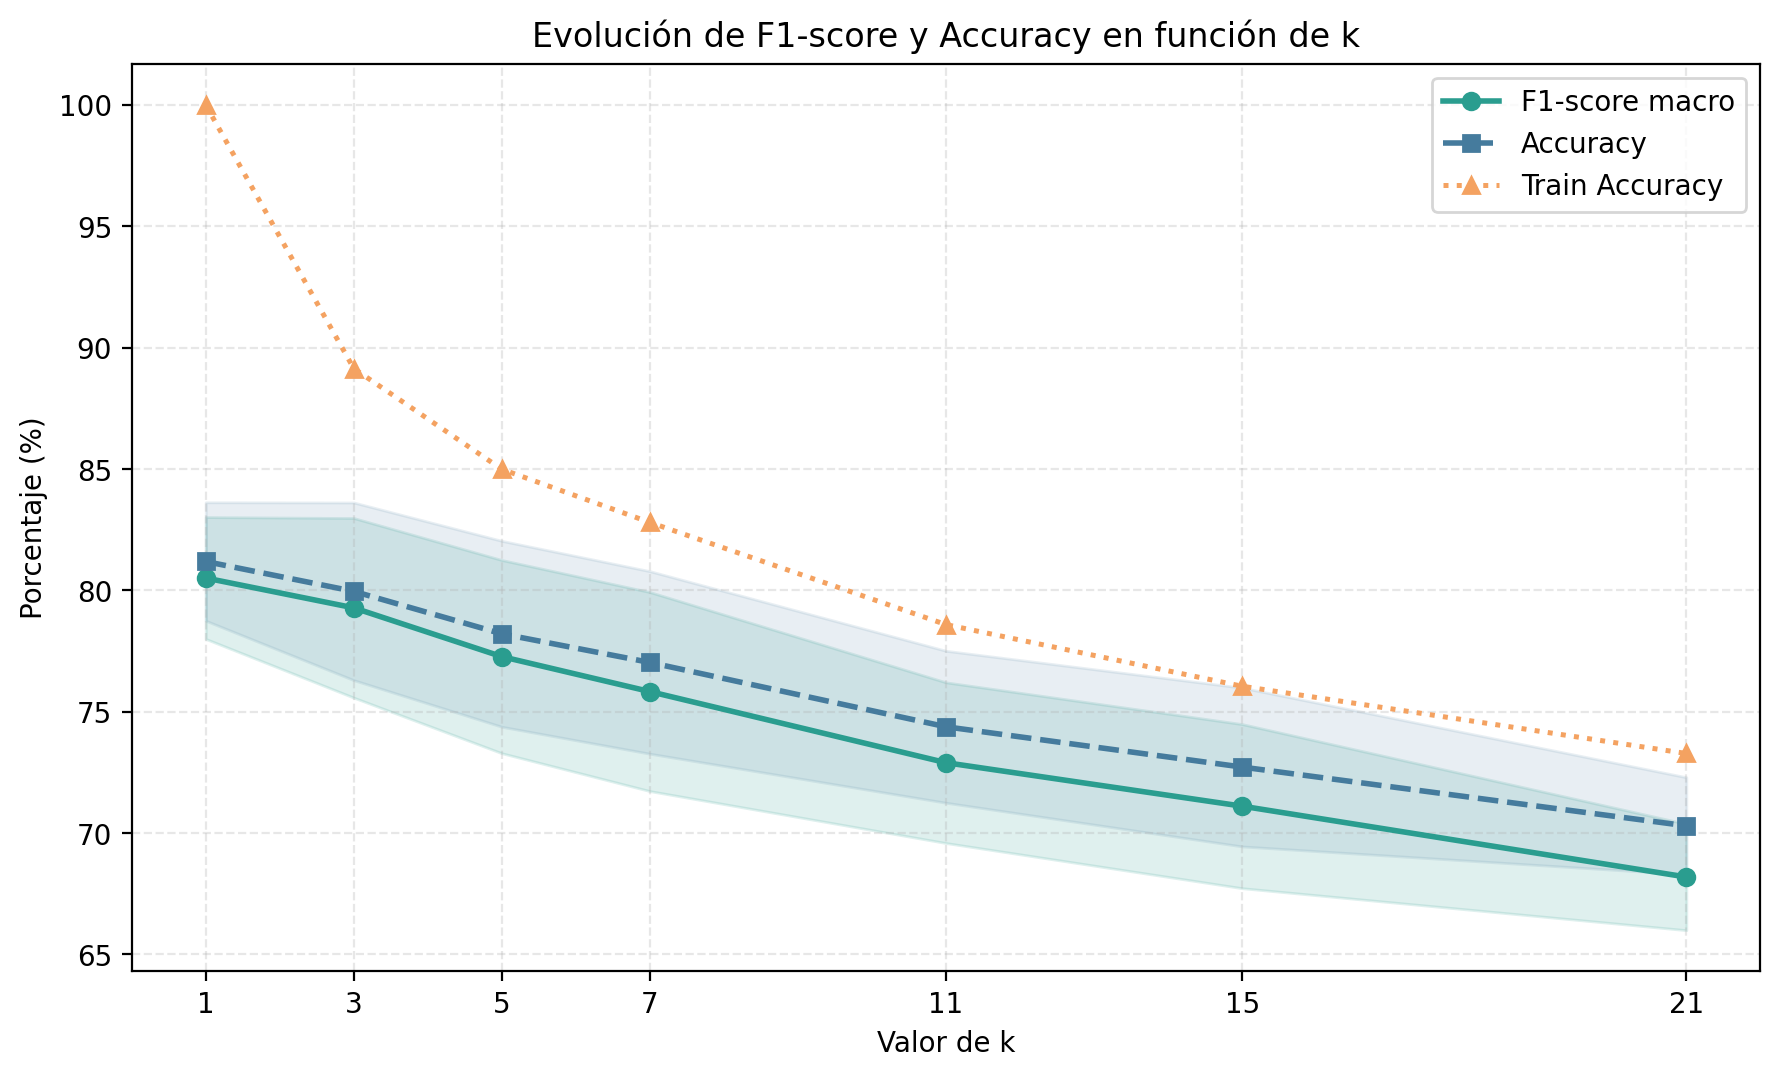
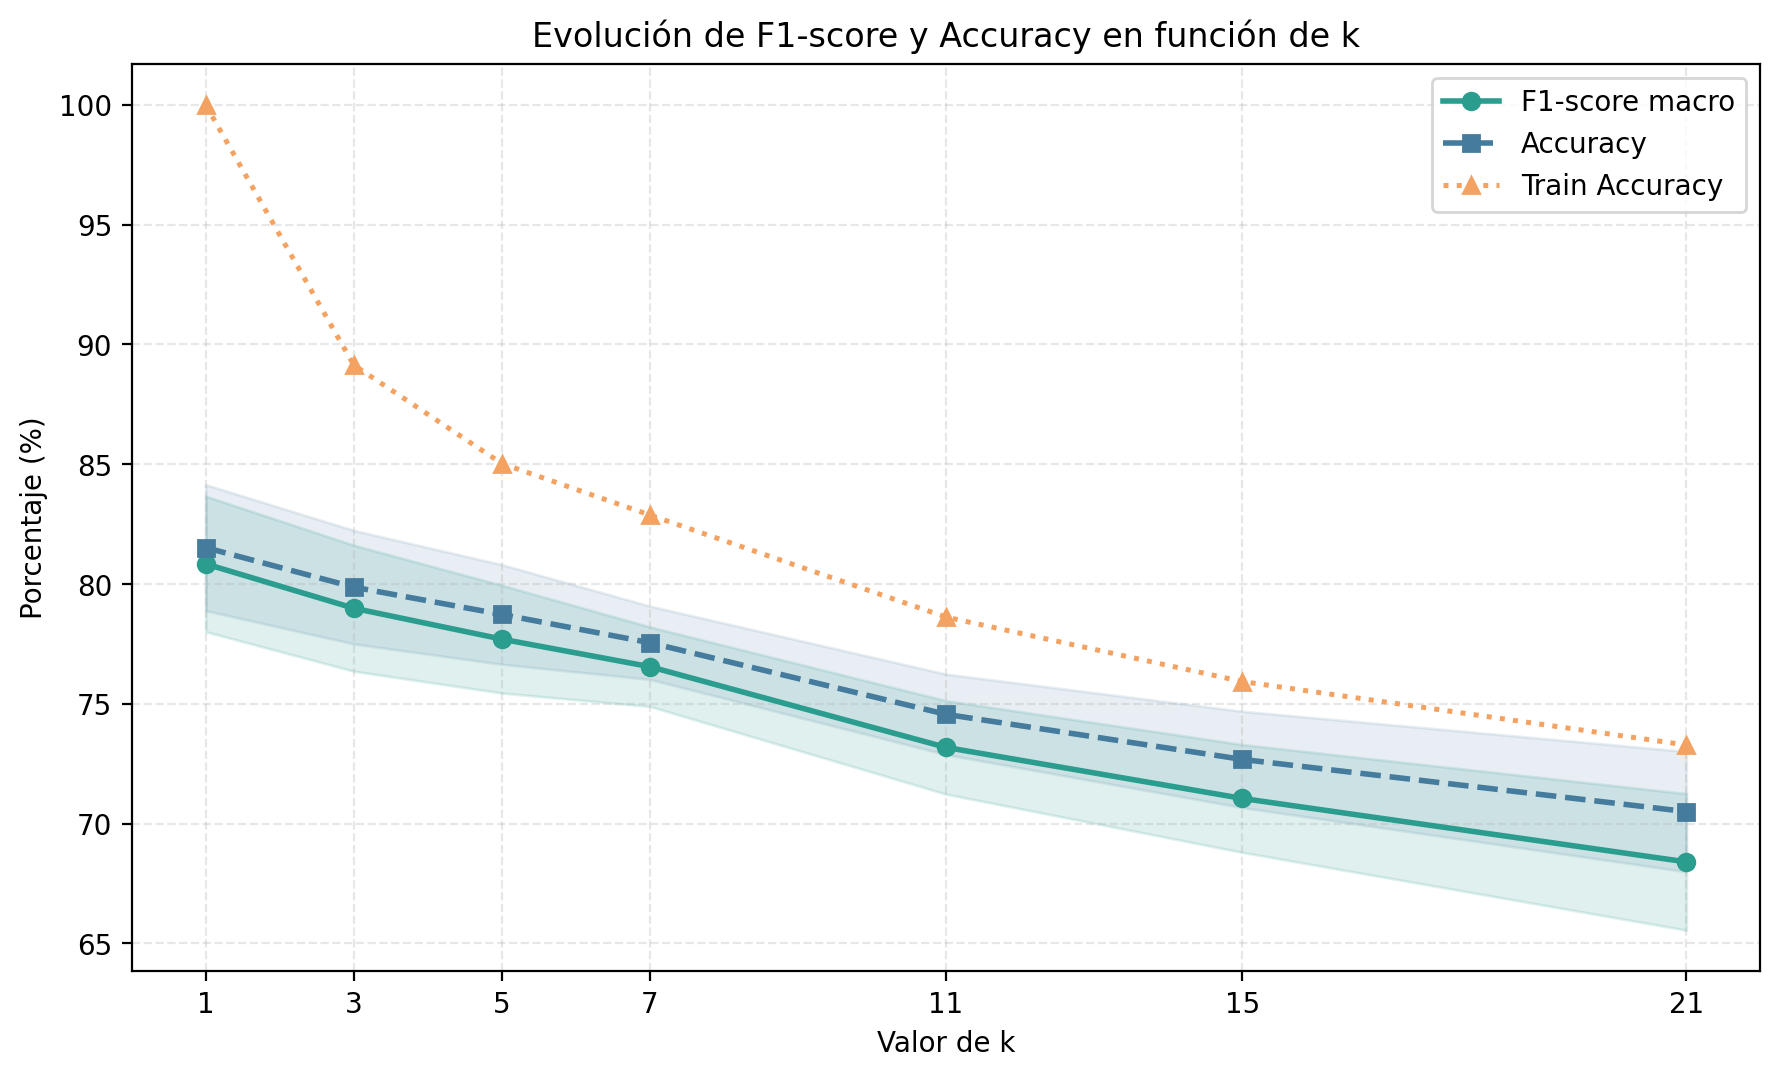
Update KNN results and graficas from Julia execution
- Resultados Julia (Random.seed=42): mejor k=1, Acc=81.52%, F1=80.84%
- Regeneradas 5 graficas con datos Julia: ranking, scatter F1/error,
  train_vs_test, curva F1 vs k, matriz confusion mejor config
- Actualizada tabla comparativa KNN

diff --git a/estimacion/salidas_knn/tablas/tabla_comparativa_knn.md b/estimacion/salidas_knn/tablas/tabla_comparativa_knn.md
@@ -1,9 +1,9 @@
 | Ranking | Nombre | K | Train Acc ± std (%) | Acc ± std (%) | F1 ± std (%) | Error ± std (%) |
 | --- | --- | --- | --- | --- | --- | --- |
-| 1 | kNN k=1 | 1 | 100.00 ± 0.00 | 81.19 ± 2.44 | 80.51 ± 2.51 | 18.81 ± 2.44 |
-| 2 | kNN k=3 | 3 | 89.14 ± 0.28 | 79.96 ± 3.66 | 79.28 ± 3.70 | 20.04 ± 3.66 |
-| 3 | kNN k=5 | 5 | 84.99 ± 0.29 | 78.21 ± 3.83 | 77.27 ± 3.98 | 21.79 ± 3.83 |
-| 4 | kNN k=7 | 7 | 82.80 ± 0.50 | 77.03 ± 3.76 | 75.83 ± 4.10 | 22.97 ± 3.76 |
-| 5 | kNN k=11 | 11 | 78.59 ± 0.49 | 74.38 ± 3.13 | 72.90 ± 3.31 | 25.62 ± 3.13 |
-| 6 | kNN k=15 | 15 | 76.05 ± 0.47 | 72.72 ± 3.27 | 71.11 ± 3.38 | 27.28 ± 3.27 |
-| 7 | kNN k=21 | 21 | 73.28 ± 0.39 | 70.30 ± 2.00 | 68.19 ± 2.19 | 29.70 ± 2.00 |
+| 1 | kNN k=1 | 1 | 100.00 ± 0.00 | 81.52 ± 2.63 | 80.84 ± 2.83 | 18.48 ± 2.63 |
+| 2 | kNN k=3 | 3 | 89.14 ± 0.25 | 79.87 ± 2.37 | 78.99 ± 2.63 | 20.13 ± 2.37 |
+| 3 | kNN k=5 | 5 | 85.03 ± 0.34 | 78.73 ± 2.08 | 77.70 ± 2.25 | 21.27 ± 2.08 |
+| 4 | kNN k=7 | 7 | 82.88 ± 0.28 | 77.55 ± 1.53 | 76.55 ± 1.66 | 22.45 ± 1.53 |
+| 5 | kNN k=11 | 11 | 78.62 ± 0.34 | 74.56 ± 1.68 | 73.18 ± 1.95 | 25.44 ± 1.68 |
+| 6 | kNN k=15 | 15 | 75.93 ± 0.20 | 72.68 ± 2.01 | 71.05 ± 2.25 | 27.32 ± 2.01 |
+| 7 | kNN k=21 | 21 | 73.28 ± 0.49 | 70.50 ± 2.51 | 68.40 ± 2.85 | 29.50 ± 2.51 |
